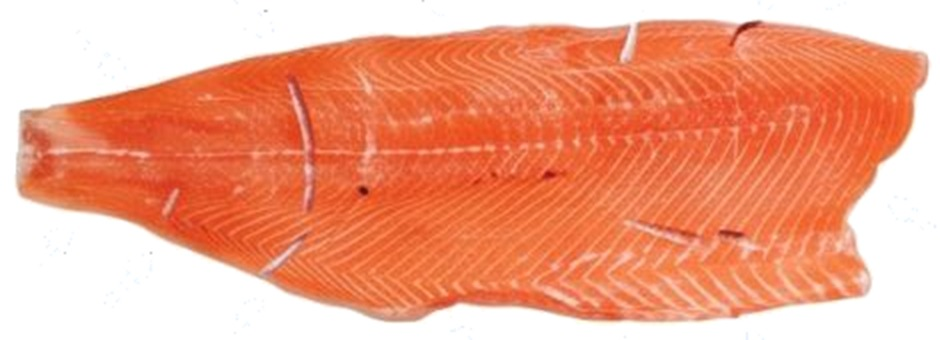
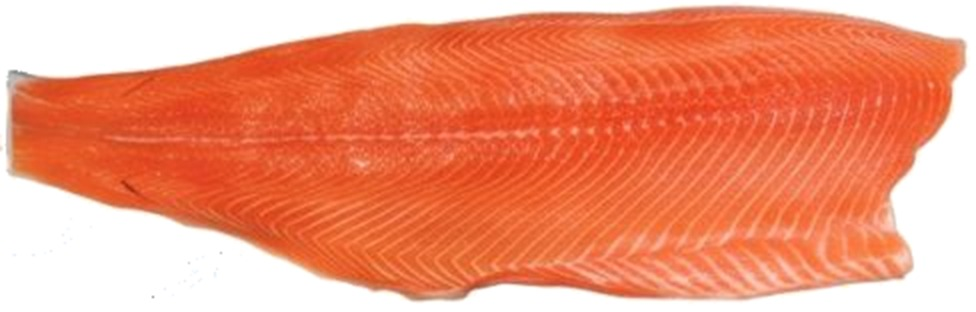
Catálogo: encabezado con foto del fiordo en alta resolución; Trim C con ilustración limpia

Changed region(s): [[0.0, 0.0, 1.0, 0.9808]]

diff --git a/catalogo.html b/catalogo.html
@@ -9,10 +9,10 @@
 <link href="https://fonts.googleapis.com/css2?family=Urbanist:wght@500;700;800&family=Instrument+Sans:wght@400;500;600&display=swap" rel="stylesheet">
 <link rel="stylesheet" href="styles.css">
 <style>
-/* Encabezado de página: franja de filete a sangre, oscurecida para el texto */
-.page-top{position:relative;color:#fff;padding:190px 0 90px;overflow:hidden;isolation:isolate;background:var(--fjord)}
-.page-top::before{content:"";position:absolute;inset:0;z-index:-2;background:url("img/cat-filete.jpg") center 40%/cover}
-.page-top::after{content:"";position:absolute;inset:0;z-index:-1;background:linear-gradient(90deg,rgba(10,43,76,.92) 0%,rgba(10,43,76,.7) 55%,rgba(10,43,76,.25) 100%)}
+/* Encabezado de página: fiordo de la portada (alta resolución), encuadrado en las jaulas de cultivo */
+.page-top{position:relative;color:#fff;padding:190px 0 100px;overflow:hidden;isolation:isolate;background:var(--fjord)}
+.page-top::before{content:"";position:absolute;inset:0;z-index:-2;background:url("img/portada.webp") 75% 62%/cover}
+.page-top::after{content:"";position:absolute;inset:0;z-index:-1;background:linear-gradient(90deg,rgba(10,43,76,.9) 0%,rgba(10,43,76,.62) 50%,rgba(10,43,76,.08) 100%)}
 .page-top h1{font-size:clamp(2.8rem,7vw,5.4rem);font-weight:800;max-width:12ch}
 .page-top p{max-width:54ch;margin-top:1em;font-size:1.12rem;color:#d9e8f2}
 
@@ -149,7 +149,7 @@ tbody tr:last-child th,tbody tr:last-child td{border-bottom:0}
           <p class="keep">Mantiene: espinas laterales (pin bones) y piel</p>
         </article>
         <article class="cut">
-          <figure><img src="img/g-trim-c.jpg" width="940" height="340" alt="Filete Trim C sin espinas laterales"></figure>
+          <figure><img src="img/g-trim-c.jpg" width="976" height="312" alt="Filete Trim C sin espinas laterales"></figure>
           <div class="tagline"><span class="k">Trim C</span><span class="n">Sin espinas</span></div>
           <div class="level" aria-label="Nivel de limpieza 3 de 5"><i class="on"></i><i class="on"></i><i class="on"></i><i></i><i></i></div>
           <p>Todo lo del Trim B, y además sin espinas laterales (pin bones).</p>
